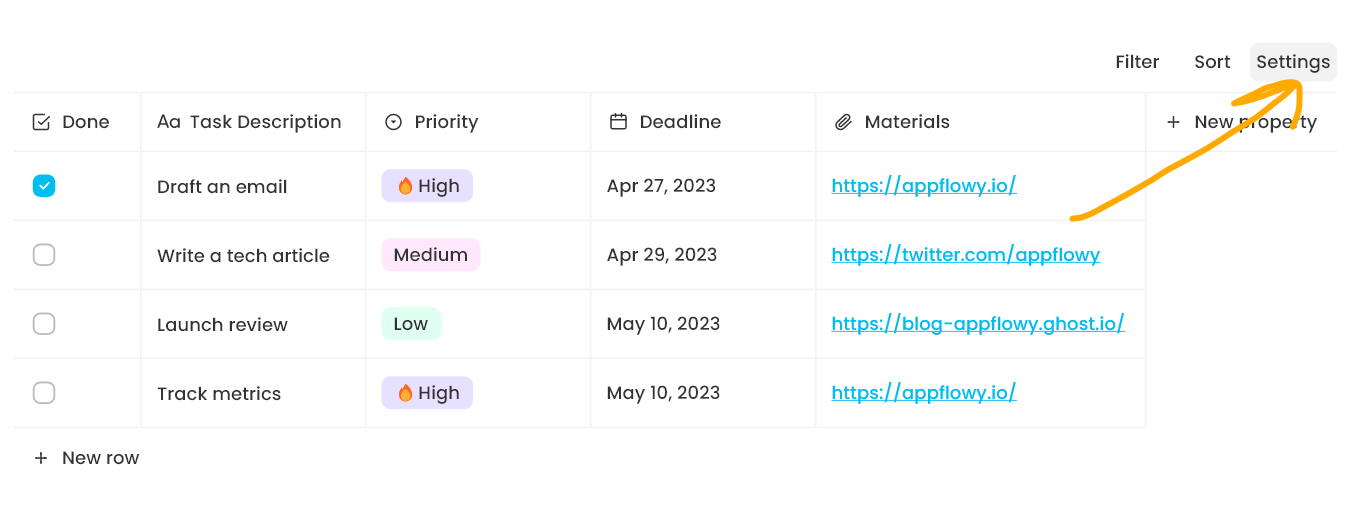
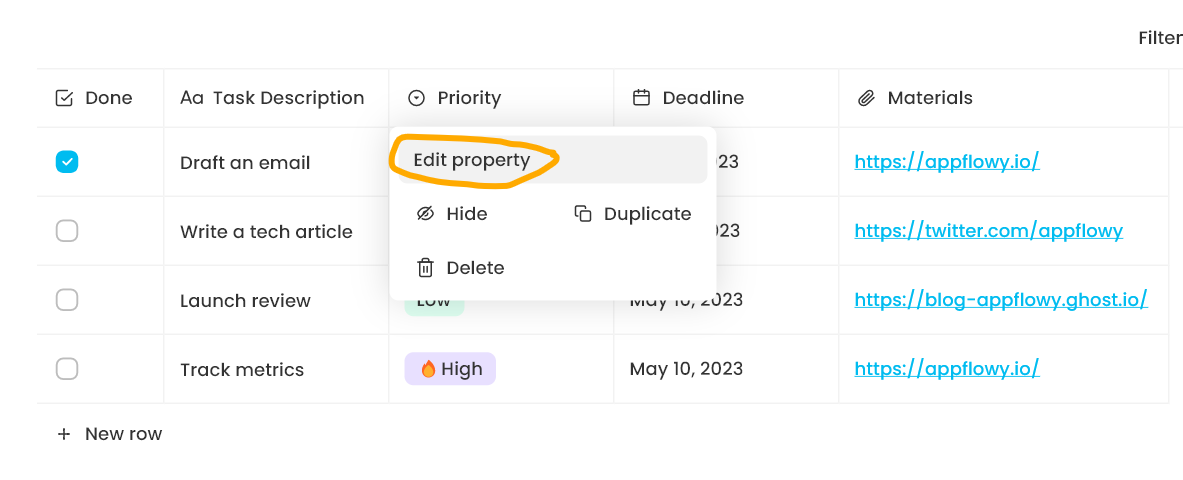
GITBOOK-245: change request with no subject merged in GitBook

diff --git a/essential-documentation/databases/manage-properties.md b/essential-documentation/databases/manage-properties.md
@@ -16,55 +16,90 @@ This is how it looks if I select `Date` and name it as "Deadline".
 
 ### Edit property values
 
+Data put under a property (or a column) is called a value. Setting up a proper property type enables you to quickly enter a value.&#x20;
 
+#### Select
+
+* `Add unique tags to this property by clicking on the property name and then choosing Edit property`
+* `Clicking on Add option to add unique values`
+* &#x20;You can also enter a new tag by clicking on a cell under the column, typing what you want, and pressing enter after each. Colors are randomly assigned.
+
+<figure><img src="../../.gitbook/assets/image (10).png" alt=""><figcaption></figcaption></figure>
+
+<figure><img src="../../.gitbook/assets/image (3).png" alt=""><figcaption></figcaption></figure>
+
+<figure><img src="../../.gitbook/assets/image (17).png" alt=""><figcaption></figcaption></figure>
+
+
+
+#### Multi-Select
+
+* Work almost the same as `Select` except that each value can hold more than one tag.
+* For example, Priority is a `Select` property while Categories is a `Multi-Select` property.
+
+<figure><img src="../../.gitbook/assets/image (18).png" alt=""><figcaption></figcaption></figure>
+
+#### Date
+
+* Clicking to add data will bring up a calendar picker, where you can select the day relevant to the database item — maybe it's a start date or deadline.
+
+<figure><img src="../../.gitbook/assets/image (16).png" alt=""><figcaption></figcaption></figure>
+
+* Toggle on `Include time` to choose an exact time, not just a day.
+
+<figure><img src="../../.gitbook/assets/image (19).png" alt=""><figcaption></figcaption></figure>
+
+* Click `Date format & Time format` to modify these settings.
+
+<figure><img src="../../.gitbook/assets/image (14).png" alt=""><figcaption></figcaption></figure>
 
 ### Delete, duplicate, and rename a property
 
-<img src="../../.gitbook/assets/image (10).png" alt="" data-size="original">![](<../../.gitbook/assets/image (11).png>)
+<img src="../../.gitbook/assets/image (10) (3).png" alt="" data-size="original">![](<../../.gitbook/assets/image (11).png>)
 
 Click on the property name to edit the property. As you can see in the above screenshots, clicking on "Status" will trigger an action menu where you can find "Edit property", "Hide", "Duplicate", and "Delete".
 
 
 
-**Delete**
+#### **Delete**
 
 * Select `Delete`&#x20;
 * Then you will need to click on `OK` to delete the property
 
 <figure><img src="../../.gitbook/assets/image (5).png" alt=""><figcaption></figcaption></figure>
 
-**Duplicate**
+#### **Duplicate**
 
 * Select Duplicate
 * A new column with the same property type will show up to the right of the duplicated column.
 
 <figure><img src="../../.gitbook/assets/image (6).png" alt=""><figcaption></figcaption></figure>
 
-**Rename a property**
+#### **Rename a property**
 
 * Choose "Edit property"
 * Use `Backspace` to delete the text "Status"&#x20;
 * Enter a new name&#x20;
 * Click anywhere outside the dropdown menu where you edited the property name to close up the menu or simply pressing `ESC`
 
-![](<../../.gitbook/assets/image (3).png>)![](<../../.gitbook/assets/image (4).png>)
+![](<../../.gitbook/assets/image (3) (2).png>)![](<../../.gitbook/assets/image (4).png>)
 
 
 
 ### Hide or show a property
 
-**Hide a property**
+#### **Hide a property**
 
 * Click on the property name to open up the action menu
 * Click on `Hide`
 
 <figure><img src="../../.gitbook/assets/image (2).png" alt=""><figcaption></figcaption></figure>
 
-**Show a property**
+#### **Show a property**
 
 * Go to Settings located at the top right corner of the database
 
-<figure><img src="../../.gitbook/assets/image (1).png" alt=""><figcaption></figcaption></figure>
+<figure><img src="../../.gitbook/assets/image (1) (3).png" alt=""><figcaption></figcaption></figure>
 
 * Click on `Properties`
 
@@ -72,9 +107,14 @@ Click on the property name to edit the property. As you can see in the above scr
 
 * Toggle on the 👁 icon next to "Progress" to show it
 
-<figure><img src="../../.gitbook/assets/image (8).png" alt=""><figcaption></figcaption></figure>
+<figure><img src="../../.gitbook/assets/image (8) (2).png" alt=""><figcaption></figcaption></figure>
 
 ### Rearrange properties
 
 * Long press the column header to move it to another place
 
+
+
+### Adjust the width of a column
+
+<figure><img src="../../.gitbook/assets/column_rearrange (1).gif" alt=""><figcaption></figcaption></figure>
